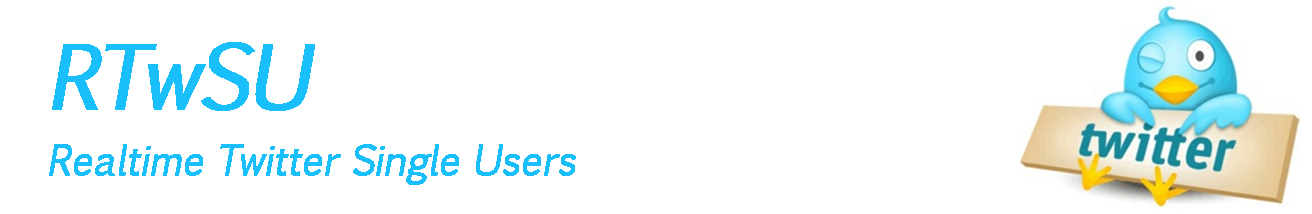
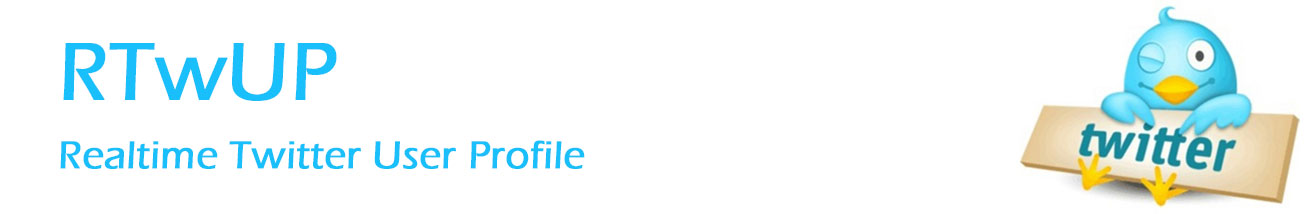
restyling

Changed region(s): [[0.0312, 0.6449, 0.4688, 0.8692], [0.0312, 0.1963, 0.2812, 0.5327]]

diff --git a/RTwUP/src/main/javascript/index.html b/RTwUP/src/main/javascript/index.html
@@ -3,7 +3,7 @@
 <meta charset="UTF-8">
 <meta name="author"
 	content="Daniele Morgantini">
-<title>RTwSU - Realtime Twitter Single Users</title>
+<title>RTwSU - Realtime Twitter User Profile</title>
 <script type="text/javascript"
 	src="http://localhost:8000/socket.io/socket.io.js"></script>
 <script type="text/javascript">
